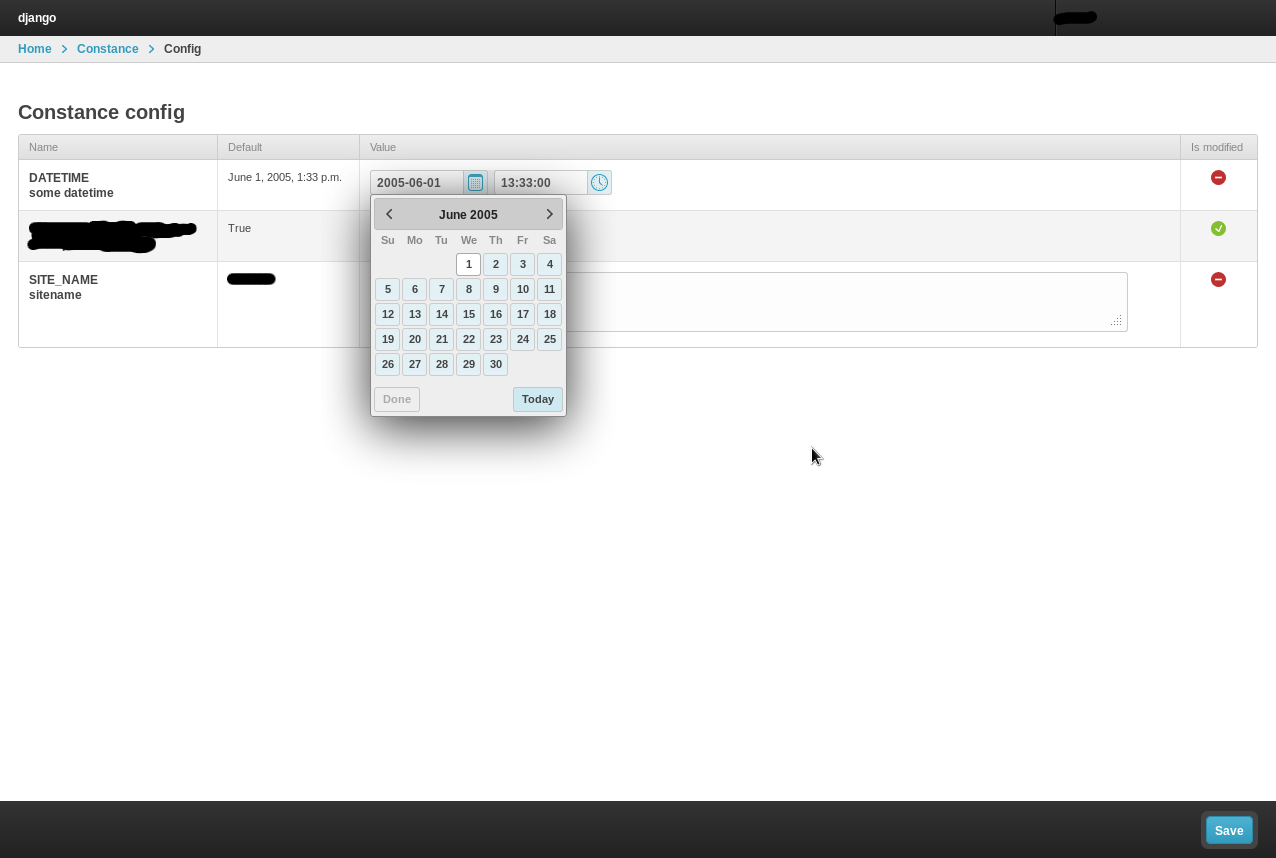
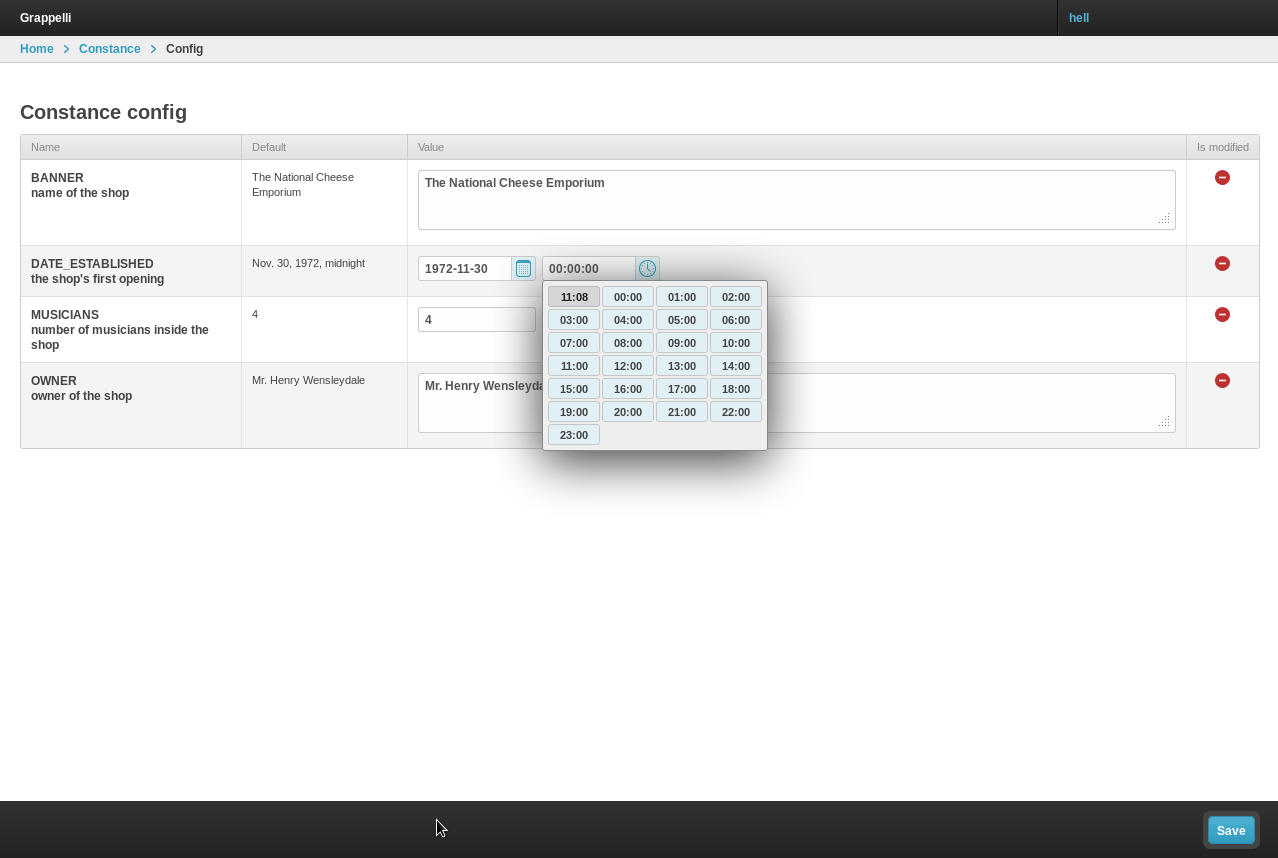
example fix

diff --git a/example/cheeseshop/settings.py b/example/cheeseshop/settings.py
@@ -53,12 +53,22 @@ MEDIA_ROOT = ''
 # URL that handles the media served from MEDIA_ROOT. Make sure to use a
 # trailing slash if there is a path component (optional in other cases).
 # Examples: "http://media.lawrence.com", "http://example.com/media/"
-MEDIA_URL = ''
+MEDIA_URL = '/media/'
+
+# Absolute path to the directory static files should be collected to.
+# Don't put anything in this directory yourself; store your static files
+# in apps' "static/" subdirectories and in STATICFILES_DIRS.
+# Example: "/home/media/media.lawrence.com/static/"
+STATIC_ROOT = ''
+
+# URL prefix for static files.
+# Example: "http://media.lawrence.com/static/"
+STATIC_URL = '/static/'
 
 # URL prefix for admin media -- CSS, JavaScript and images. Make sure to use a
 # trailing slash.
 # Examples: "http://foo.com/media/", "/media/".
-ADMIN_MEDIA_PREFIX = '/media/'
+#ADMIN_MEDIA_PREFIX = '/media/'
 
 # Make this unique, and don't share it with anybody.
 SECRET_KEY = 'hdx64#m+lnc_0ffoyehbk&7gk1&*9uar$pcfcm-%$km#p0$k=6'
@@ -92,21 +102,22 @@ INSTALLED_APPS = (
     'django.contrib.sessions',
     'django.contrib.sites',
     'django.contrib.messages',
+    'django.contrib.staticfiles',
     # Uncomment the next line to enable the admin:
+    'grappelli',
     'django.contrib.admin',
     'cheeseshop.apps.catalog',
     'cheeseshop.apps.storage',
     'constance',
 )
 
-CONSTANCE_CONNECTION = {
-    'host': 'localhost',
-    'port': 6379,
-    'db': 0,
-}
+CONSTANCE_BACKEND = 'constance.backends.mongod.MongoBackend'
+
+import mongoengine
+mongoengine.connect('some_database')
 
 CONSTANCE_CONFIG = {
-	'BANNER': ('The National Cheese Emporium', 'name of the shop'),
+    'BANNER': ('The National Cheese Emporium', 'name of the shop'),
     'OWNER': ('Mr. Henry Wensleydale', 'owner of the shop'),
     'MUSICIANS': (4, 'number of musicians inside the shop'),
     'DATE_ESTABLISHED': (datetime(1972, 11, 30), "the shop's first opening"),

diff --git a/example/cheeseshop/urls.py b/example/cheeseshop/urls.py
@@ -13,5 +13,6 @@ urlpatterns = patterns('',
     # (r'^admin/doc/', include('django.contrib.admindocs.urls')),
 
     # Uncomment the next line to enable the admin:
+    (r'^grappelli/', include('grappelli.urls')),
     (r'^admin/', include(admin.site.urls)),
 )
